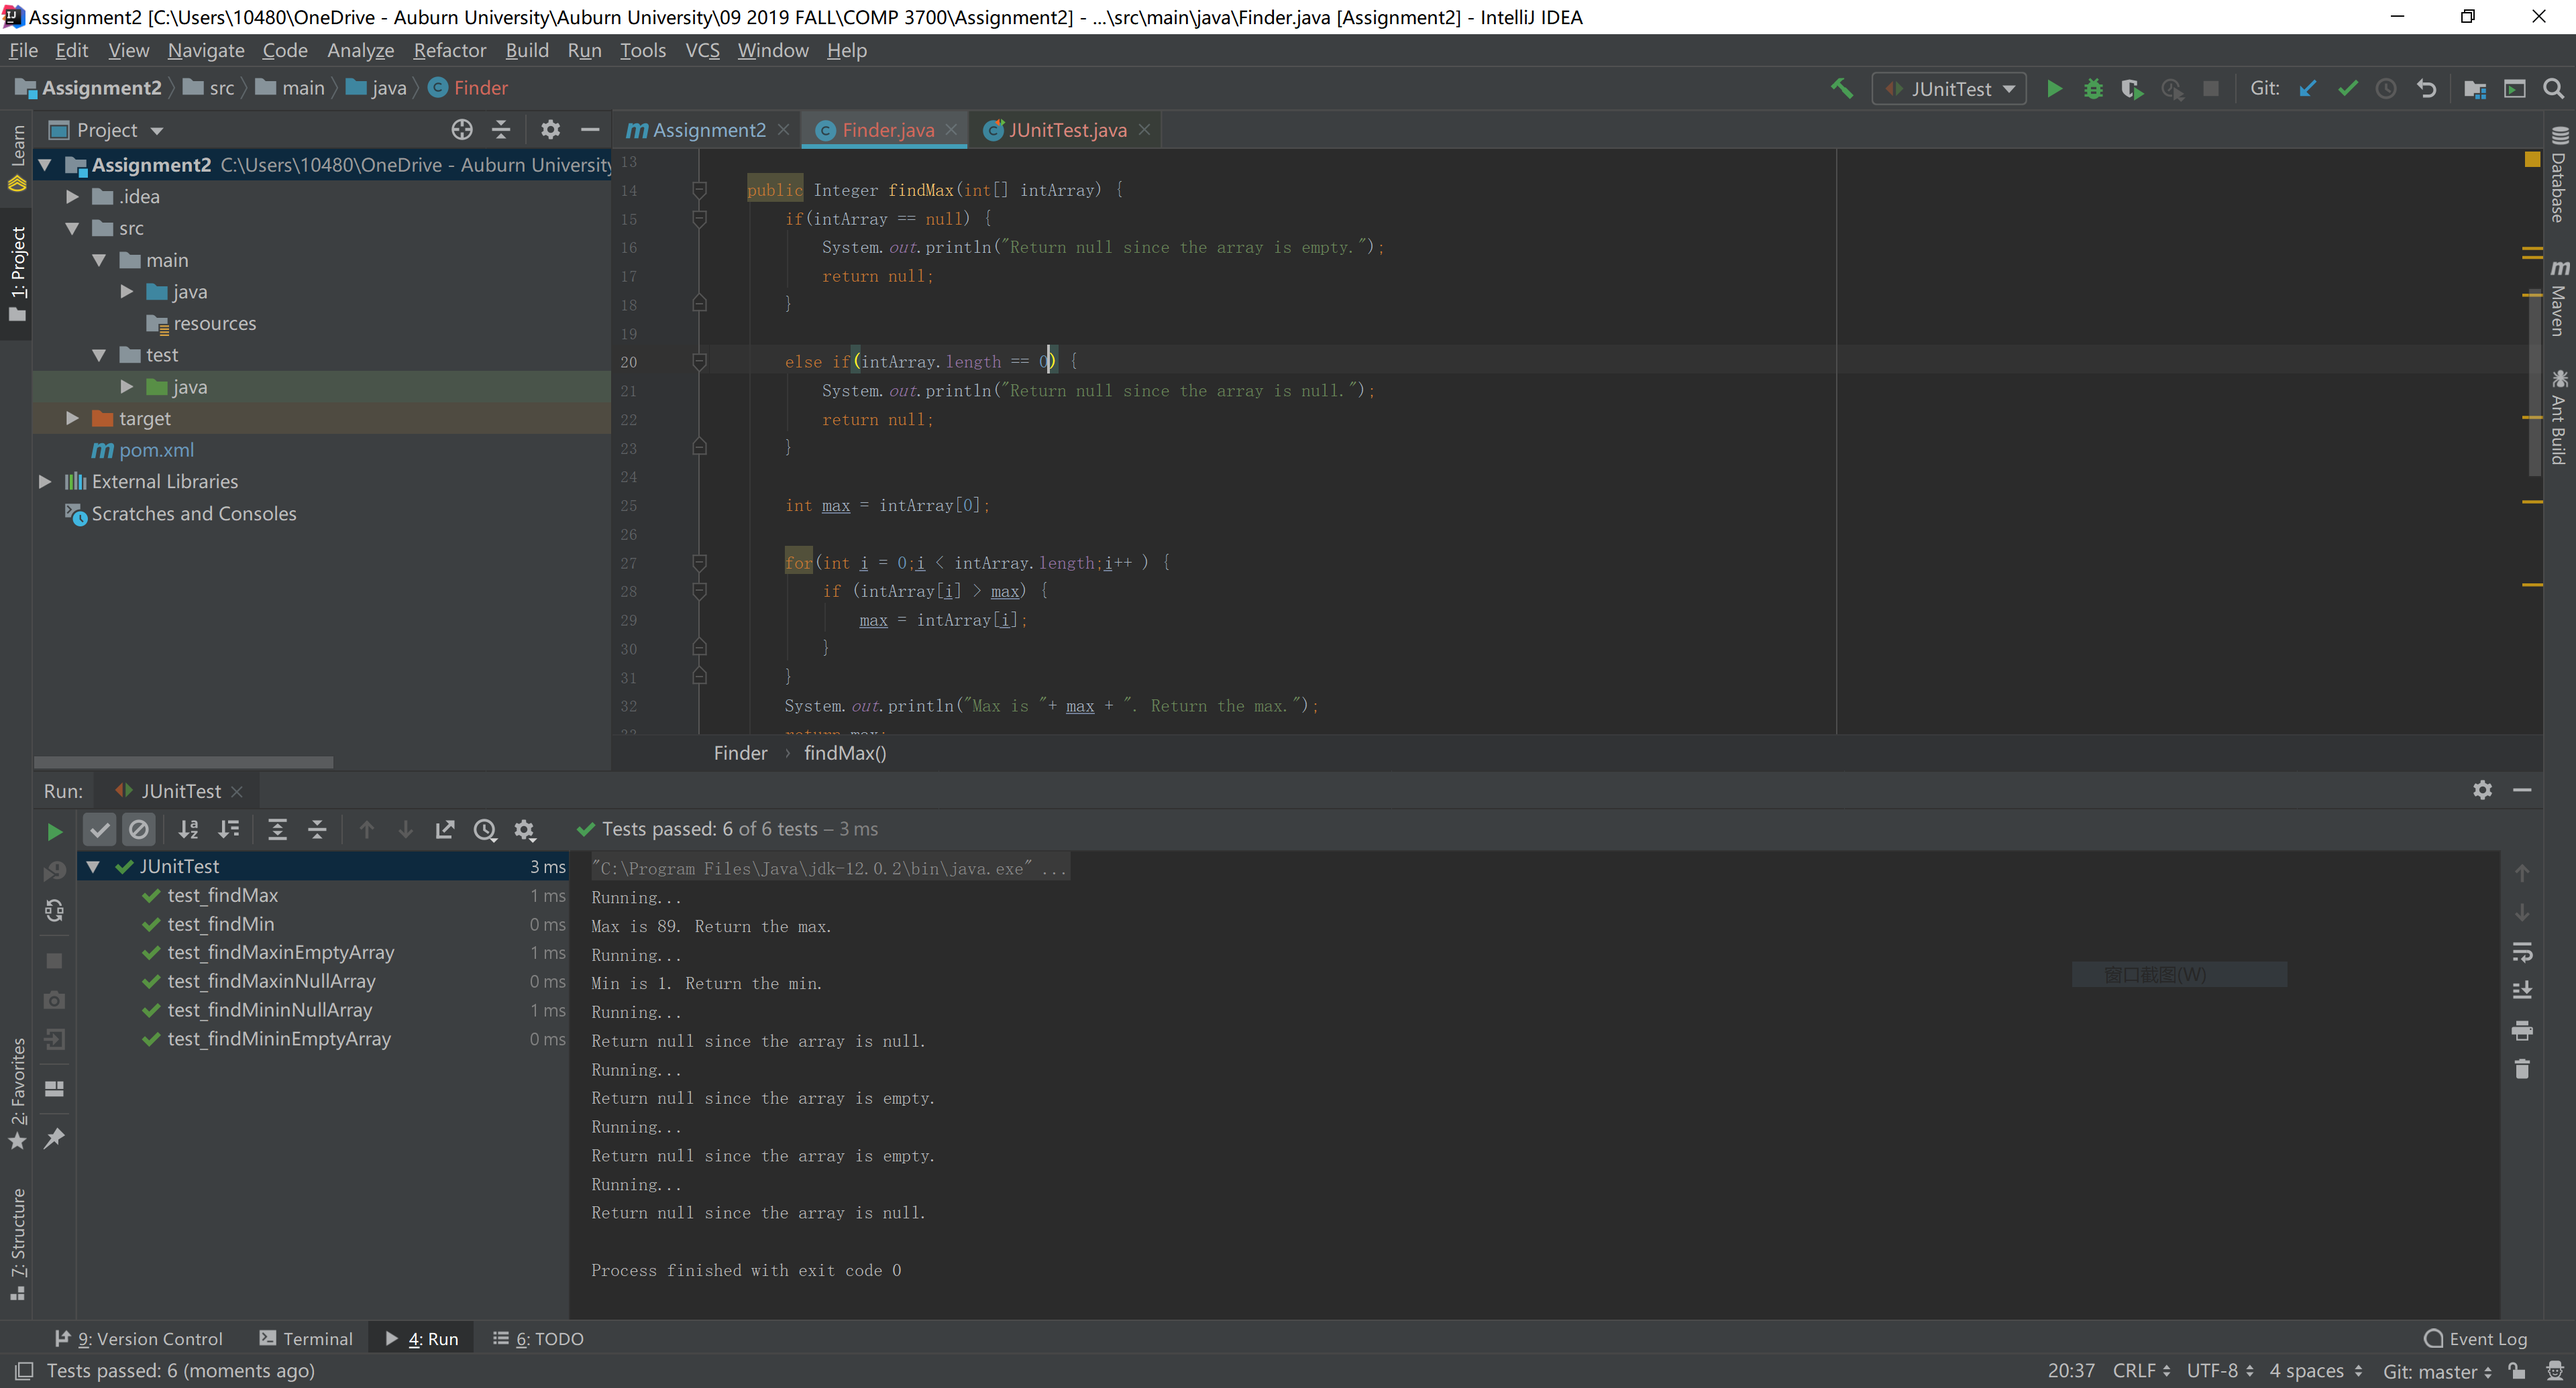
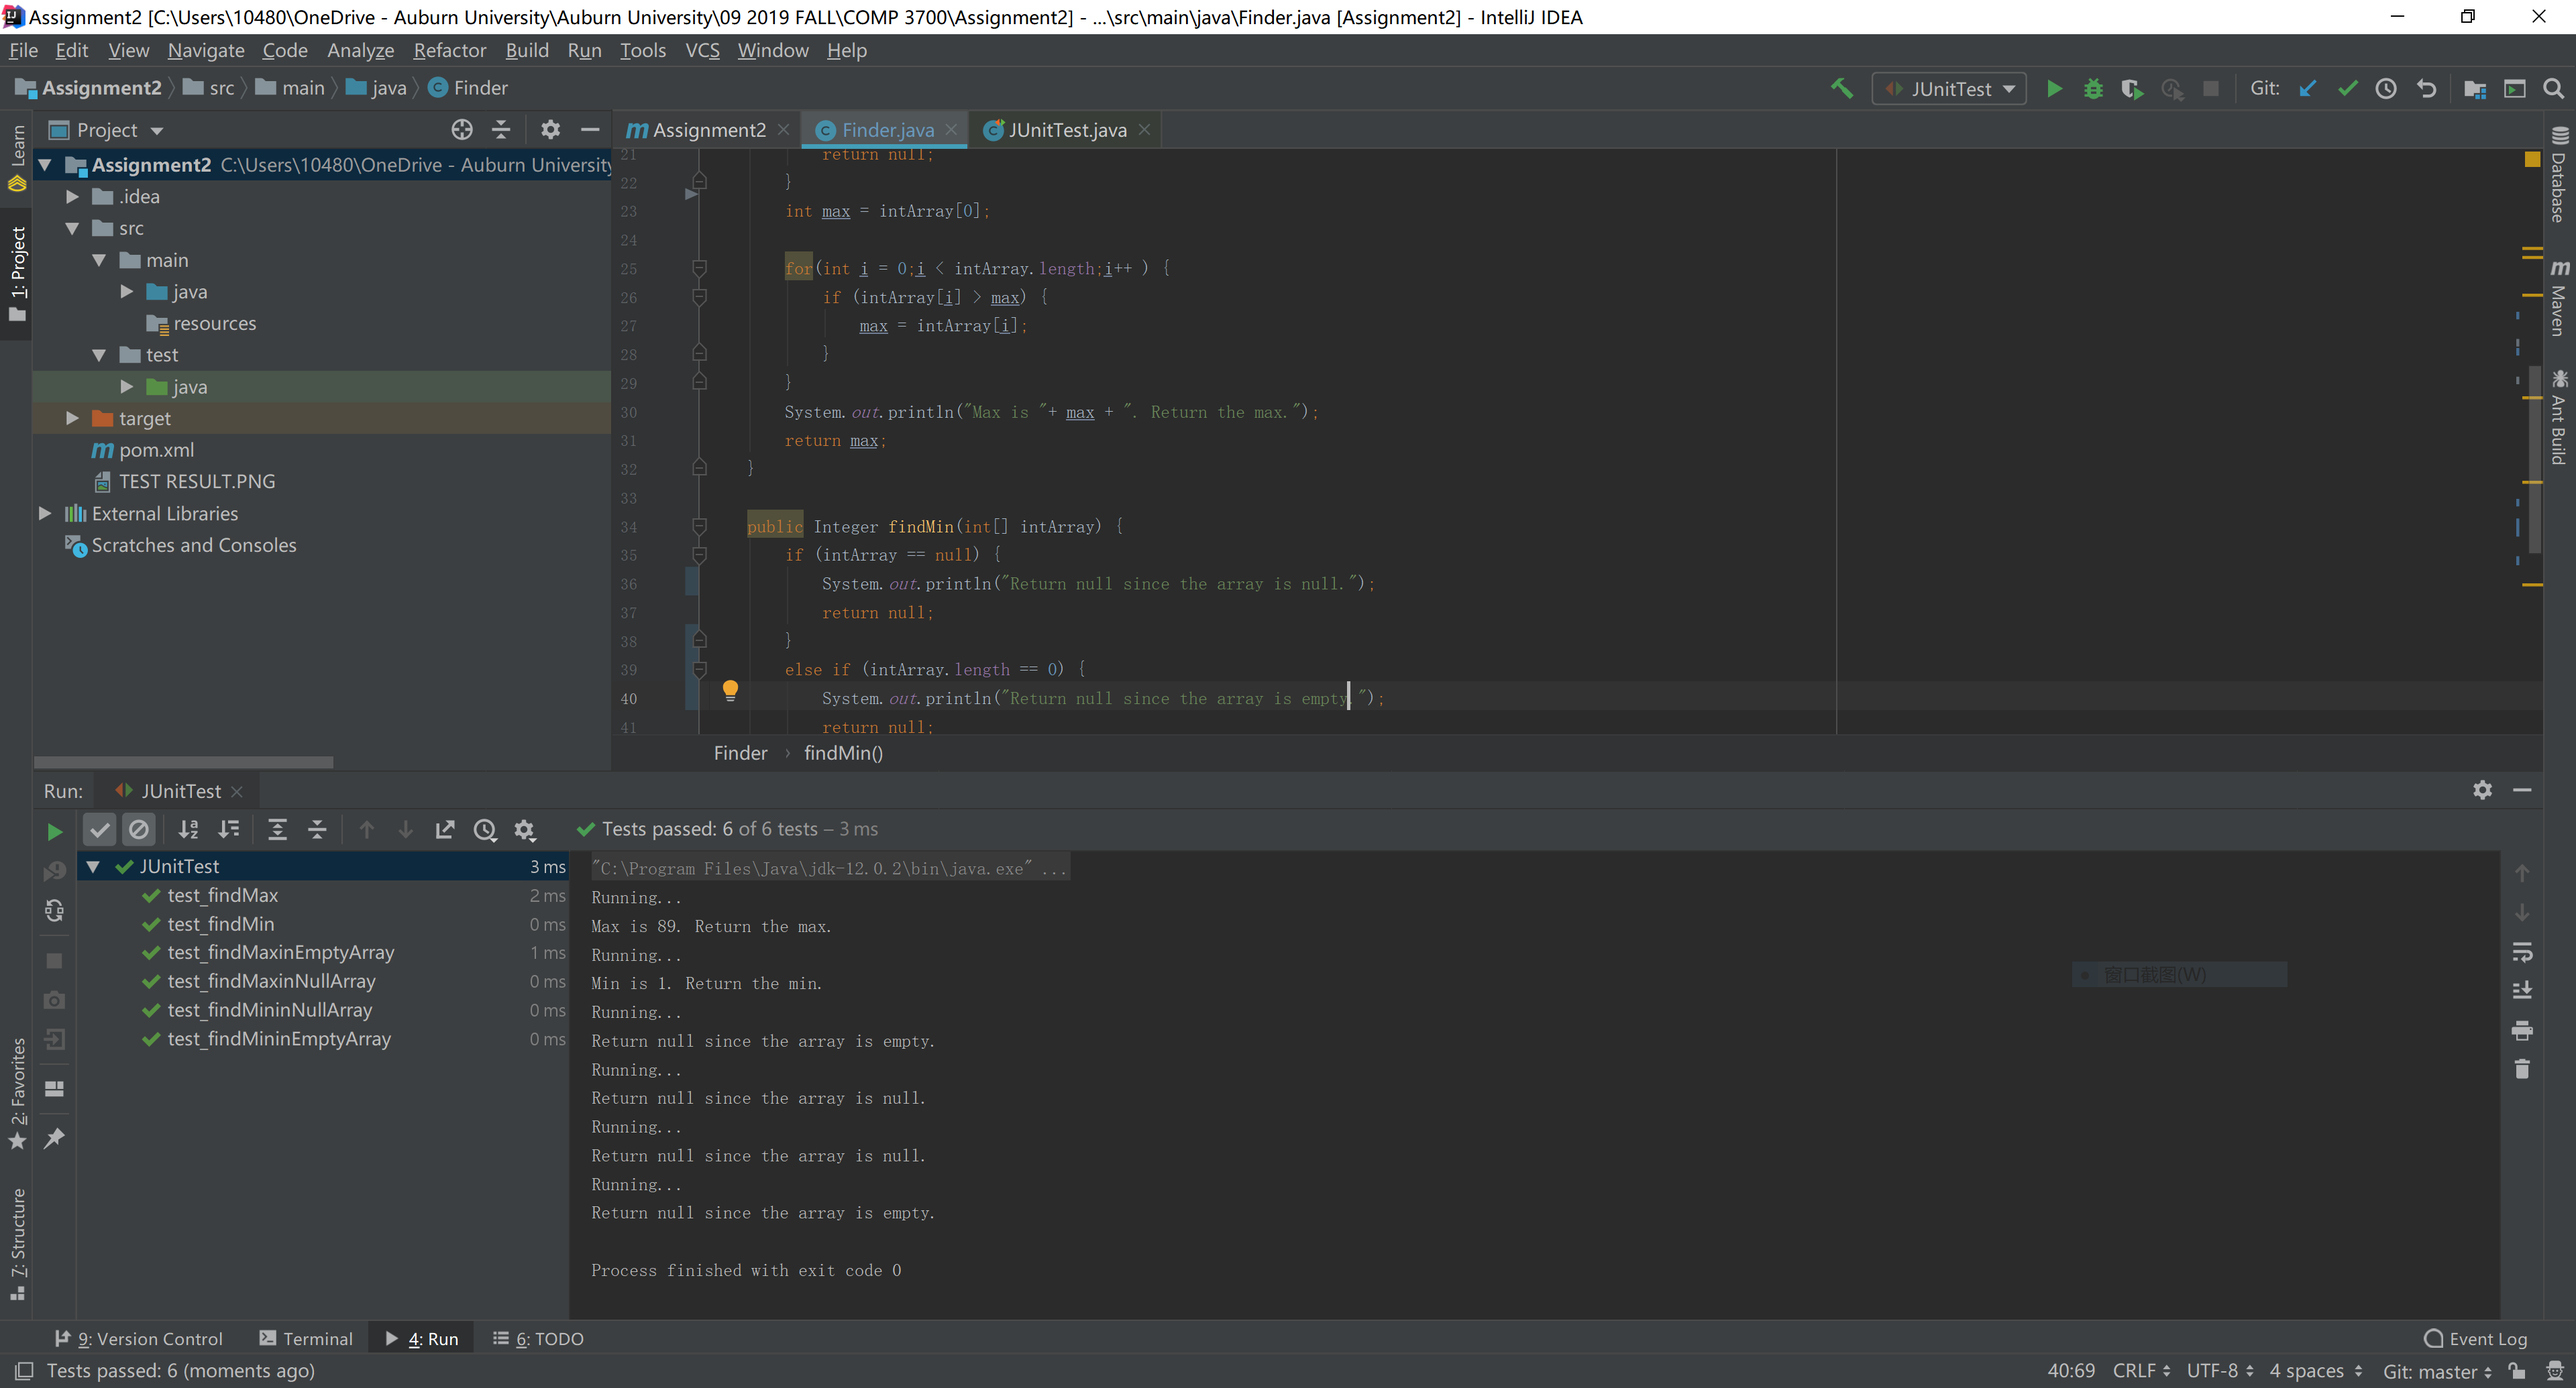
Uploaded the latest version of Finder class and JUintTest

diff --git a/src/main/java/Finder.java b/src/main/java/Finder.java
@@ -13,15 +13,13 @@ public class Finder {
 
     public Integer findMax(int[] intArray) {
         if(intArray == null) {
-            System.out.println("Return null since the array is empty.");
-            return null;
-        }
-
-        else if(intArray.length == 0) {
             System.out.println("Return null since the array is null.");
             return null;
         }
-
+        else if(intArray.length == 0) {
+            System.out.println("Return null since the array is empty.");
+            return null;
+        }
         int max = intArray[0];
 
         for(int i = 0;i < intArray.length;i++ ) {
@@ -35,12 +33,14 @@ public class Finder {
 
     public Integer findMin(int[] intArray) {
         if (intArray == null) {
-            System.out.println("Return null since the array is empty.");
-            return null;
-        } else if (intArray.length == 0) {
             System.out.println("Return null since the array is null.");
             return null;
-        } else {
+        }
+        else if (intArray.length == 0) {
+            System.out.println("Return null since the array is empty.");
+            return null;
+        }
+        else {
             int min = intArray[0];
         for (int i = 0; i < intArray.length; i++) {
             if (min > intArray[i]) {
